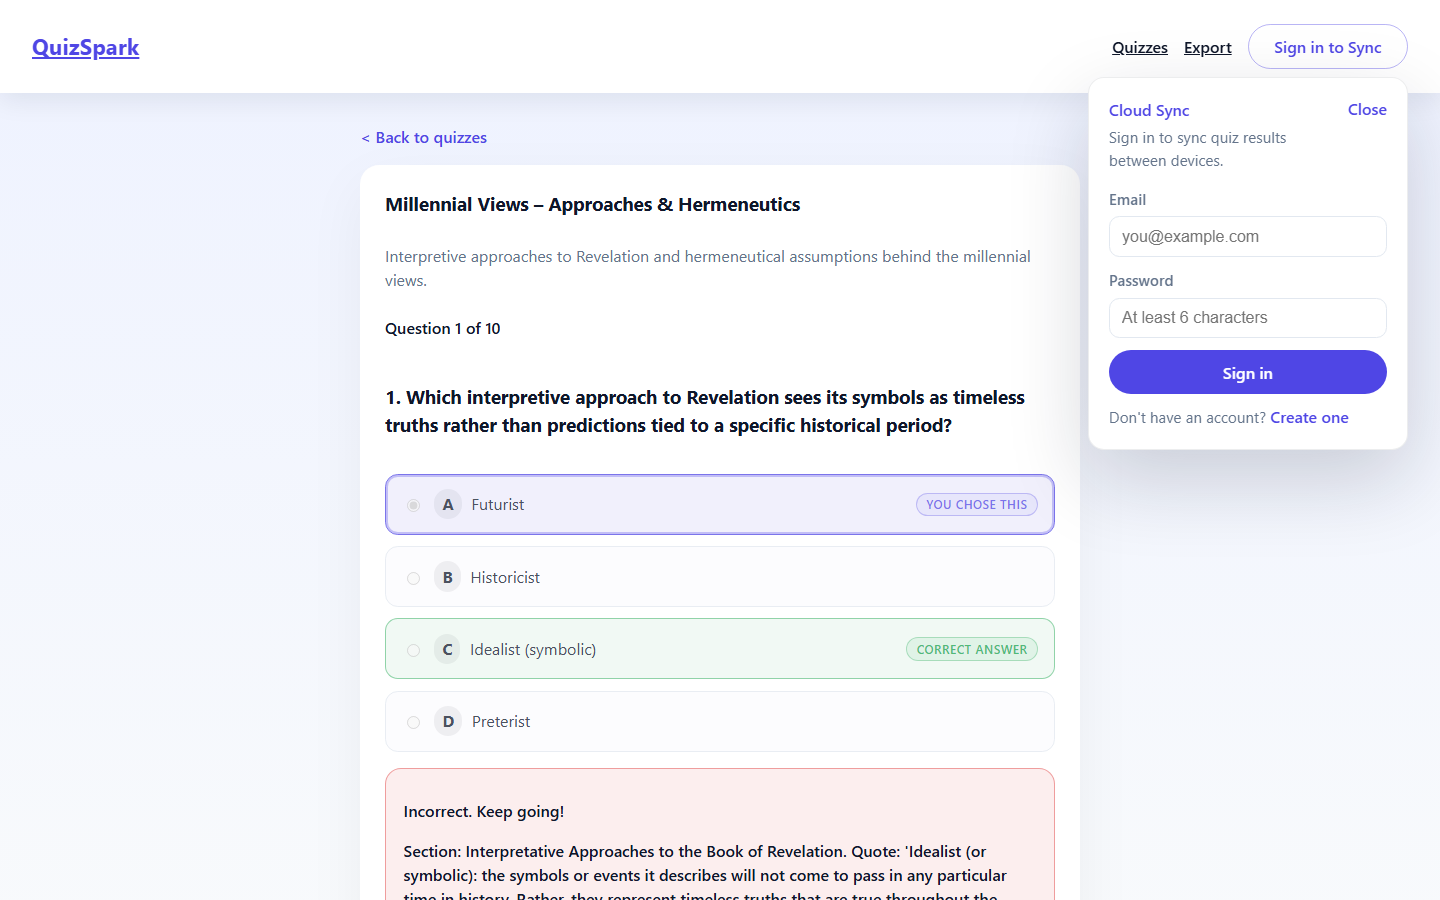
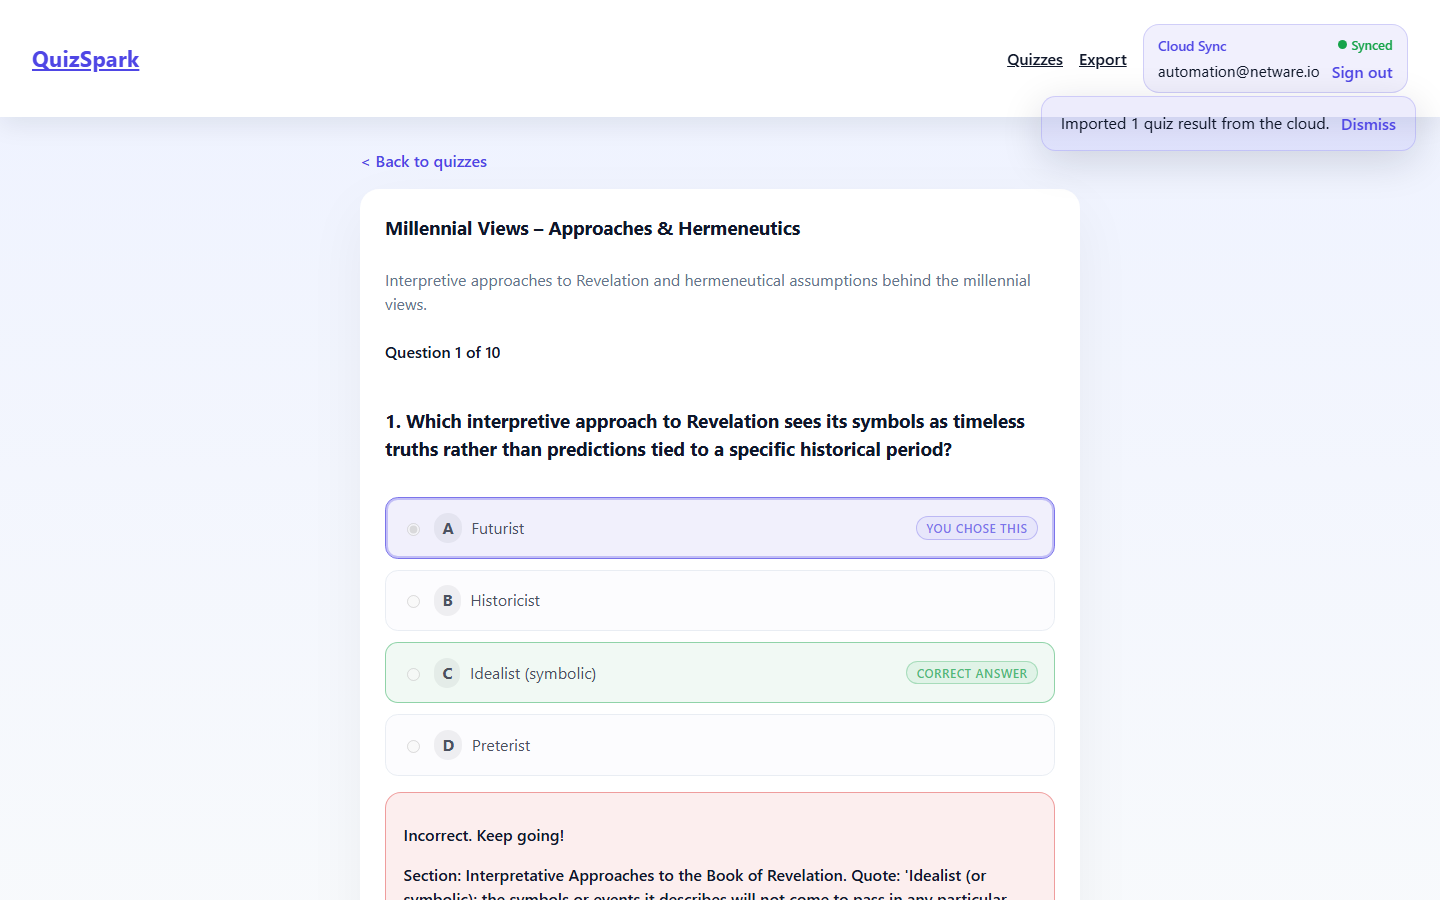
Enhance screenshot automation with login

diff --git a/docs/ui-functional-description.md b/docs/ui-functional-description.md
@@ -16,7 +16,7 @@ The dashboard mirrors the layout mockups while layering in live capabilities:
 
 ![Account pill shown after signing in](images/ui/cloud-sync-logged-in.png)
 
-Cloud Sync flips into an authenticated pill once the user signs in. The badge shows the latest status (`Synced`, `Syncing`, `Using local data`, or `Cloud disabled`) while the inline email plus `Sign out` button keeps the action consistent with the unauthenticated trigger.
+Cloud Sync flips into an authenticated pill once the user signs in. The badge shows the latest status (`Synced`, `Syncing`, `Using local data`, or `Cloud disabled`) while the inline email plus `Sign out` button keeps the action consistent with the unauthenticated trigger. The screenshot automation signs in with the `LOGIN_USERNAME`/`LOGIN_PASSORD` pair from `.env` before refreshing this image so it always reflects the live header state.
 
 ## Quiz-Taking Flow
 
@@ -39,5 +39,5 @@ Cloud Sync flips into an authenticated pill once the user signs in. The badge sh
 
 1. Ensure dependencies are installed (`npm install`).
 2. If this is the first time using Playwright on the machine, also run `npx playwright install chromium` to download the browser once.
-3. Run `npm run capture:screens`. The helper script builds the SPA, launches `npm run preview` on an available localhost port, seeds deterministic attempts in `localStorage`, and captures the dashboard, quiz, and review states with Playwright/Chromium.
+3. Run `npm run capture:screens`. The helper script builds the SPA, launches `npm run preview` on an available localhost port, seeds deterministic attempts in `localStorage`, and captures the dashboard, quiz, review, and logged-in header states with Playwright/Chromium. Define `LOGIN_USERNAME` and `LOGIN_PASSORD` in `.env` so the automation can authenticate before grabbing the header crop (it skips that image otherwise).
 4. Update this markdown file if you add or remove screenshots so future contributors know what each image represents.

diff --git a/README.md b/README.md
@@ -110,6 +110,7 @@ Cloud sync relies on Firebase Auth (email/password) and Firestore. Configure the
    VITE_FIREBASE_APP_ID="..."
    VITE_FIREBASE_MEASUREMENT_ID="" # optional
    ```
+   If you want the screenshot automation (`npm run capture:screens`) to authenticate and refresh the logged-in header image, also define `LOGIN_USERNAME` and `LOGIN_PASSORD` in the same env file.
 4. Use the dev project's values for day-to-day development and the prod project's values on the production build pipeline (e.g., via GitHub Actions secrets). The SPA reads these keys at build time, so swapping environments only requires updating the env file or CI secrets.
 5. After the env vars are defined, restart `npm run dev`. The **Cloud Sync** entry in the header will show the sign-in form, and authenticated users will be synced to Firestore in the background.
 
